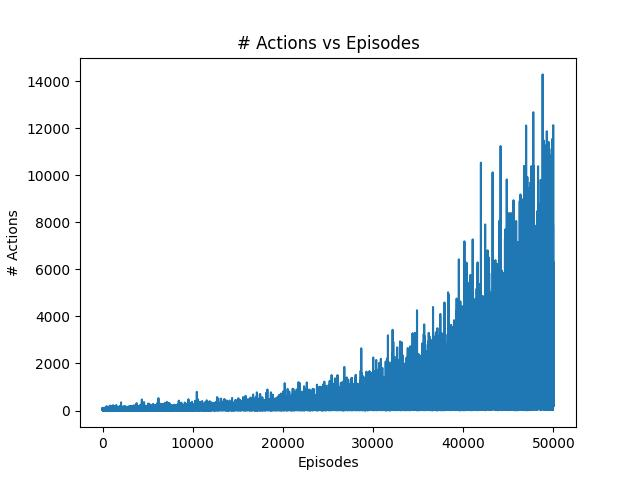
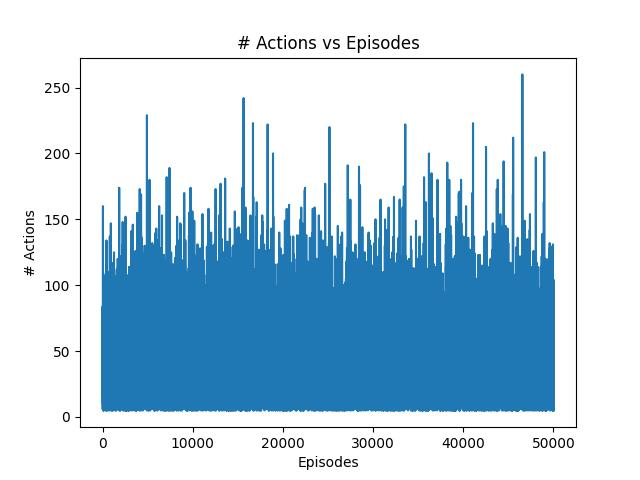
funcionando

diff --git a/src/part_03/QLearning.py b/src/part_03/QLearning.py
@@ -22,16 +22,19 @@ class QLearning:
         self.episodes = episodes
 
     def select_action(self, state):
-        rv = random.uniform(0, 1)
-        if rv < self.epsilon:
-            return self.env.action_space.sample() # Explore action space
-        return np.argmax(self.q_table[state]) # Exploit learned values
+         rv = random.uniform(0, 1)
+         if rv < self.epsilon:
+             return self.env.action_space.sample() # Explore action space
+         return np.argmax(self.q_table[state]) # Exploit learned values
+    
+    def select_action(self, state):
+        return self.env.action_space.sample() # Explore action space
 
     def train(self, filename, plotFile):
         actions_per_episode = []
         for i in range(1, self.episodes+1):
             (state, _) = self.env.reset()
-            #rewards = 0
+            rewards = 0
             done = False
             actions = 0
 
@@ -40,14 +43,14 @@ class QLearning:
                 next_state, reward, done, truncated, _ = self.env.step(action) 
         
                 # Adjust Q value for current state
-                old_value = 0 #pegar o valor na q-table para a combinacao action e state
-                next_max = np.max(self.q_table[next_state]) #pegar o maior valor na q-table para o proximo estado
-                new_value = old_value + self.alpha + (reward + self.gamma * next_max - old_value) #calcula o novo valor
+                old_value = self.q_table[state, action]
+                next_max = np.max(self.q_table[next_state])
+                new_value = old_value + self.alpha * (reward + self.gamma * next_max - old_value)
                 self.q_table[state, action] = new_value
                 # atualiza para o novo estado
                 state = next_state
                 actions=actions+1
-                #rewards=rewards+reward
+                rewards=rewards+reward
 
             actions_per_episode.append(actions)
             if i % 100 == 0:

diff --git a/src/part_03/FrozenLake.py b/src/part_03/FrozenLake.py
@@ -7,14 +7,14 @@ import warnings
 warnings.simplefilter("ignore")
 
 # exemplo de ambiente nao determinístico
-env = gym.make("FrozenLake-v1", map_name="8x8", is_slippery=True).env
+env = gym.make('FrozenLake-v1', render_mode='ansi',map_name="8x8", is_slippery=True).env
 
 # only execute the following lines if you want to create a new q-table
 qlearn = QLearning(env, alpha=0.2, gamma=0.95, epsilon=0.8, epsilon_min=0.0001, epsilon_dec=0.9999, episodes=50000)
 q_table = qlearn.train('data/q-table-frozen-lake-qlearning.csv','results/frozen_lake_qlearning')
 #q_table = loadtxt('data/q-table-frozen-lake-qlearning.csv', delimiter=',')
 
-env = gym.make('FrozenLake-v1', map_name="8x8", render_mode='human').env
+env = gym.make('FrozenLake-v1', render_mode='ansi',map_name="8x8", is_slippery=True).env
 
 (state, _) = env.reset()
 epochs = 0

diff --git a/src/part_03/FrozenLakeSarsa.py b/src/part_03/FrozenLakeSarsa.py
@@ -7,7 +7,7 @@ import warnings
 warnings.simplefilter("ignore")
 
 # exemplo de ambiente nao determinístico
-env = gym.make('FrozenLake-v1', render_mode='ansi').env
+env = gym.make('FrozenLake-v1', render_mode='ansi',map_name="8x8", is_slippery=True).env
 
 # only execute the following lines if you want to create a new q-table
 qlearn = Sarsa(env, alpha=0.2, gamma=0.95, epsilon=0.8, epsilon_min=0.0001, epsilon_dec=0.9999, episodes=50000)

diff --git a/src/part_03/FrozenLake100times.py b/src/part_03/FrozenLake100times.py
@@ -2,7 +2,7 @@ import gymnasium as gym
 import numpy as np
 from numpy import loadtxt
 
-env = gym.make('FrozenLake-v1', render_mode='ansi', map_name="8x8").env
+env = gym.make('FrozenLake-v1', render_mode='ansi',map_name="8x8", is_slippery=True).env
 q_table = loadtxt('data/q-table-frozen-lake-qlearning.csv', delimiter=',')
 
 
